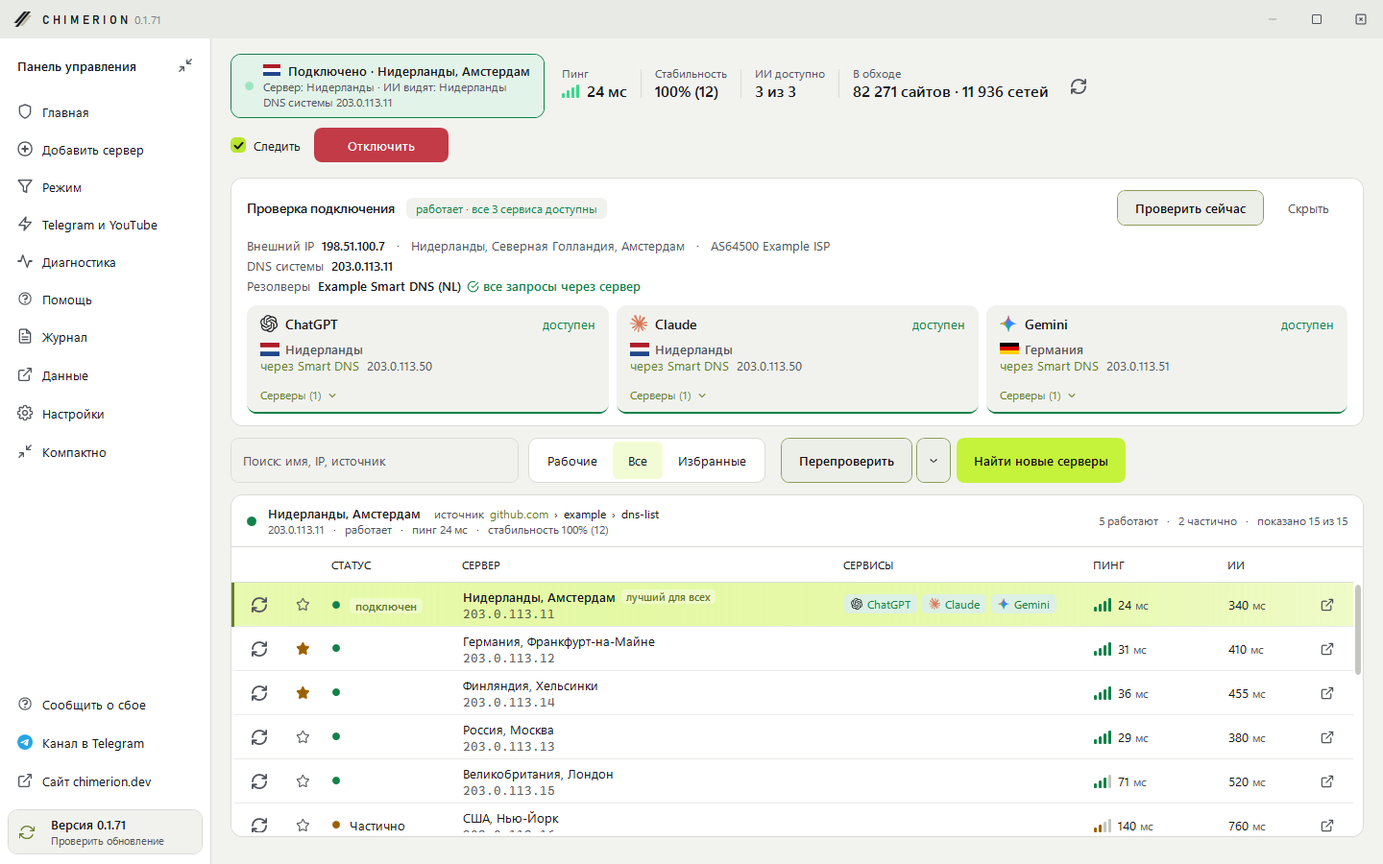
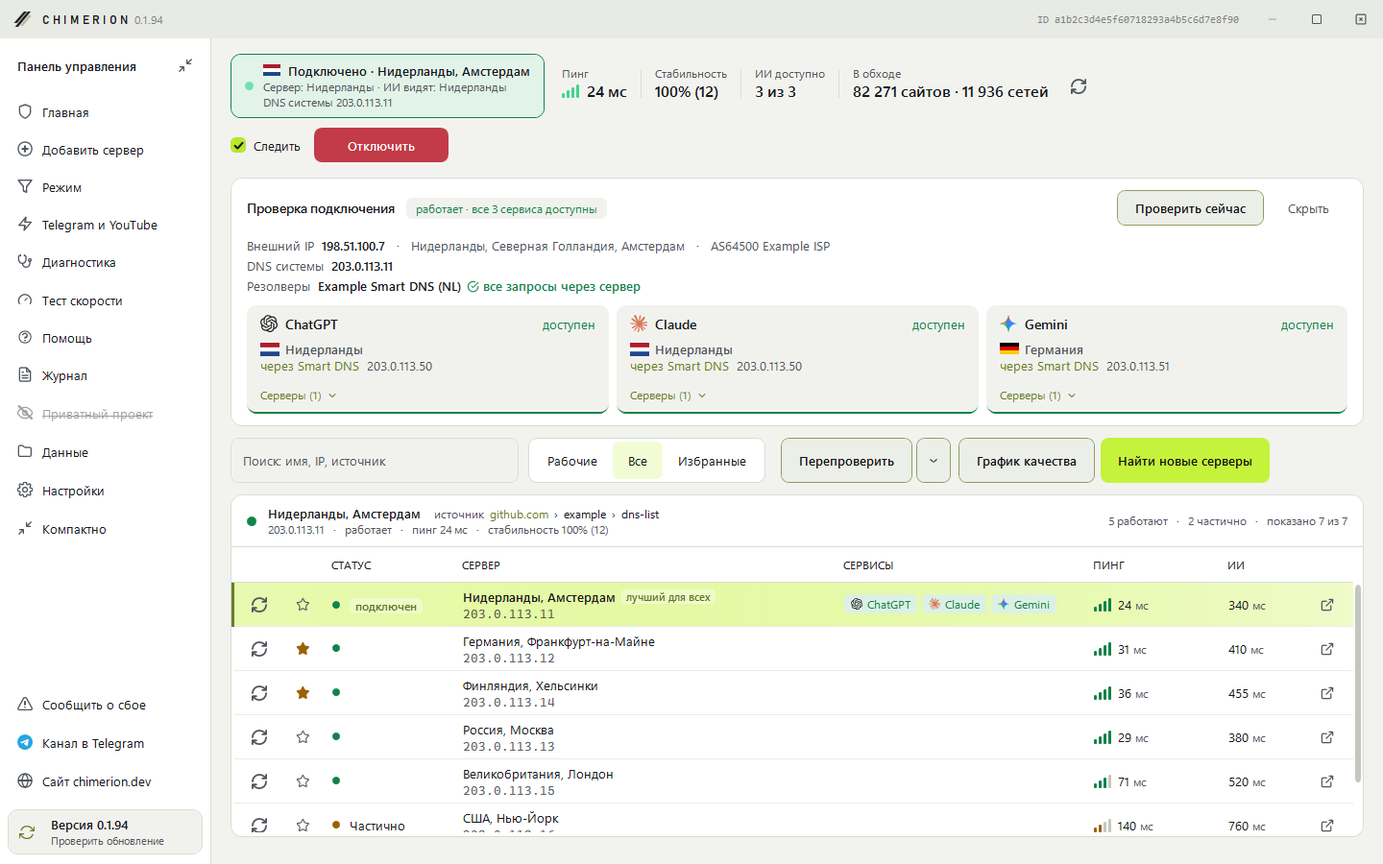
Версия 0.1.94: автоподбор с обходом и Telegram, узкая главная, проверка тем и языков, новые снимки

diff --git a/site/index.html b/site/index.html
@@ -518,7 +518,7 @@ h2 { font: 650 clamp(27px, 3.3vw, 42px)/1.1 var(--display); letter-spacing: -.03
       <p class="intro">Программа сама собирает Smart DNS с форумов, сайтов и Telegram-каналов и проверяет каждый: открывается ли сервис, из какой страны вас видят. На главном экране только важное, а полный список серверов и тонкие настройки в панели управления.</p>
       <figure class="screen">
         <div class="frame">
-          <img src="img/main.webp?v=0.1.71" srcset="img/main-480.webp?v=0.1.71 480w, img/main-800.webp?v=0.1.71 800w, img/main-1200.webp?v=0.1.71 1200w, img/main.webp?v=0.1.71 1440w" sizes="(max-width: 1220px) calc(100vw - 56px), 1164px" width="1440" height="900" loading="lazy" alt="Главный экран CHIMERION: защита включена, ChatGPT, Claude и Gemini доступны, Telegram, YouTube и Discord работают, три лучших сервера">
+          <img src="img/main.webp?v=0.1.94" srcset="img/main-480.webp?v=0.1.94 480w, img/main-800.webp?v=0.1.94 800w, img/main-1200.webp?v=0.1.94 1200w, img/main.webp?v=0.1.94 1440w" sizes="(max-width: 1220px) calc(100vw - 56px), 1164px" width="1440" height="900" loading="lazy" alt="Главный экран CHIMERION: защита включена, ChatGPT, Claude и Gemini доступны, Telegram, YouTube и Discord работают, три лучших сервера">
           <span class="pin" style="left: 16.2%; top: 6.8%" aria-hidden="true">1</span>
           <span class="pin" style="left: 16.2%; top: 34.1%" aria-hidden="true">2</span>
           <span class="pin" style="left: 57.3%; top: 34.1%" aria-hidden="true">3</span>
@@ -587,7 +587,7 @@ h2 { font: 650 clamp(27px, 3.3vw, 42px)/1.1 var(--display); letter-spacing: -.03
           <li>Может вообще не менять сервер без вас, это включается в настройках.</li>
         </ul>
       </div>
-      <div class="shot"><img src="img/compact.webp?v=0.1.71" width="485" height="840" decoding="async" alt="Компактный вид CHIMERION: кнопка отключения, доступность ChatGPT, Claude и Gemini и список серверов"></div>
+      <div class="shot"><img src="img/compact.webp?v=0.1.94" width="485" height="840" decoding="async" alt="Компактный вид CHIMERION: кнопка отключения, доступность ChatGPT, Claude и Gemini и список серверов"></div>
     </div>
   </section>
 

diff --git a/MainWindow.Dashboard.cs b/MainWindow.Dashboard.cs
@@ -207,10 +207,11 @@ public partial class MainWindow
         int lastLayout = -1;
         layout.SizeChanged += (_, e) =>
         {
+            // Узкое окно: меню сворачивается в полоску значков, а не пропадает (раньше вместе с ним пропадала и кнопка обновления)
             bool wide = e.NewSize.Width >= 900;
-            sidebarColumn.Width = new GridLength(wide ? 208 : 0);
-            sidebar.Visibility = wide ? Visibility.Visible : Visibility.Collapsed;
-            double available = e.NewSize.Width - (wide ? 208 : 0);
+            sidebarColumn.Width = new GridLength(wide ? 208 : 64);
+            SetDashboardRail(!wide);
+            double available = e.NewSize.Width - (wide ? 208 : 64);
             int mode = available < 640 ? 0 : available < 960 ? 1 : 2;
             if (mode == lastLayout) return;
             lastLayout = mode;
@@ -331,11 +332,50 @@ public partial class MainWindow
         }
     }
 
+    private readonly List<(Button Button, TextBlock Text, string Title)> _dashNav = new();
+    private DockPanel? _dashSidebarContent;
+    private FrameworkElement? _dashBrandText;
+    private bool? _dashRail;
+
+    /// <summary>Полоска значков вместо меню: подписи прозрачные, название пункта в подсказке, карточка обновления одним значком.</summary>
+    private void SetDashboardRail(bool rail)
+    {
+        if (_dashRail == rail) return;
+        _dashRail = rail;
+        if (_dashSidebarContent != null) _dashSidebarContent.Margin = rail ? new Thickness(8, 24, 8, 18) : new Thickness(15, 24, 15, 18);
+        if (_dashBrandText != null) _dashBrandText.Visibility = rail ? Visibility.Collapsed : Visibility.Visible;
+        foreach (var (button, text, title) in _dashNav)
+        {
+            text.Visibility = rail ? Visibility.Collapsed : Visibility.Visible;
+            button.ToolTip = rail ? title : null;
+            button.HorizontalContentAlignment = rail ? HorizontalAlignment.Center : HorizontalAlignment.Left;
+        }
+        foreach (var v in _updateCards.Where(c => _dashSidebarContent != null && IsInside(c.Card, _dashSidebarContent)))
+        {
+            v.Text.Visibility = rail ? Visibility.Collapsed : Visibility.Visible;
+            v.Card.BorderThickness = new Thickness(rail ? 0 : 1);
+        }
+    }
+
+    private static bool IsInside(DependencyObject child, DependencyObject parent)
+    {
+        for (var d = child; d != null; d = LogicalTreeHelper.GetParent(d) ?? (d is Visual ? VisualTreeHelper.GetParent(d) : null))
+            if (ReferenceEquals(d, parent)) return true;
+        return false;
+    }
+
+    private Button SideNav(string title, string icon, Action click, bool selected = false, bool soon = false)
+    {
+        var b = DashboardNav(title, icon, click, selected, soon);
+        if (b.Content is StackPanel { Children.Count: > 1 } row && row.Children[1] is TextBlock t) _dashNav.Add((b, t, title));
+        return b;
+    }
+
     private FrameworkElement DashboardSidebar()
     {
-        var content = new DockPanel { Margin = new Thickness(15, 24, 15, 18) };
+        var content = _dashSidebarContent = new DockPanel { Margin = new Thickness(15, 24, 15, 18) };
         var bottom = new StackPanel();
-        foreach (var (title, icon, act) in SideLinks()) bottom.Children.Add(DashboardNav(title, icon, act));
+        foreach (var (title, icon, act) in SideLinks()) bottom.Children.Add(SideNav(title, icon, act));
         bottom.Children.Add(CreateUpdateCard());
         DockPanel.SetDock(bottom, Dock.Bottom); content.Children.Add(bottom);
         var links = new StackPanel();
@@ -344,17 +384,18 @@ public partial class MainWindow
         var brandText = new StackPanel();
         brandText.Children.Add(new TextBlock { Text = "CHIMERION", FontSize = 13, FontWeight = FontWeights.Bold });
         brandText.Children.Add(Ui.Hint("Панель сети", 1)); logo.Children.Add(brandText); links.Children.Add(logo);
+        _dashBrandText = brandText;
         // Тот же порядок, что в меню панели управления: главная, серверы, обход, диагностика, настройки
-        links.Children.Add(DashboardNav("Главная", "shield-check", () => { }, true));
-        links.Children.Add(DashboardNav("Панель управления", "layout-dashboard", ShowControlPanel));
-        links.Children.Add(DashboardNav("Обход и Telegram", "zap", () => ToolsToggle_Click(this, new RoutedEventArgs())));
-        links.Children.Add(DashboardNav("Диагностика", "stethoscope", () => DiagToggle_Click(this, new RoutedEventArgs())));
-        links.Children.Add(DashboardNav("Тест скорости", "gauge", () => SpeedTest_Click(this, new RoutedEventArgs())));
-        links.Children.Add(DashboardNav("Настройки", "settings", () => Settings_Click(this, new RoutedEventArgs())));
+        links.Children.Add(SideNav("Главная", "shield-check", () => { }, true));
+        links.Children.Add(SideNav("Панель управления", "layout-dashboard", ShowControlPanel));
+        links.Children.Add(SideNav("Обход и Telegram", "zap", () => ToolsToggle_Click(this, new RoutedEventArgs())));
+        links.Children.Add(SideNav("Диагностика", "stethoscope", () => DiagToggle_Click(this, new RoutedEventArgs())));
+        links.Children.Add(SideNav("Тест скорости", "gauge", () => SpeedTest_Click(this, new RoutedEventArgs())));
+        links.Children.Add(SideNav("Настройки", "settings", () => Settings_Click(this, new RoutedEventArgs())));
         // Как «Компактно» в меню панели управления: узкое окно с кнопкой подключения, сервисами и рабочими серверами
-        links.Children.Add(DashboardNav("Компактно", "shrink", () => { ShowControlPanel(); SetCompact(true); }));
+        links.Children.Add(SideNav("Компактно", "shrink", () => { ShowControlPanel(); SetCompact(true); }));
         // Раздел в разработке: приглушенный и зачеркнутый, нажатие показывает заглушку
-        links.Children.Add(DashboardNav("Приватный проект", "eye-off", () => PrivateProject_Click(this, new RoutedEventArgs()), soon: true));
+        links.Children.Add(SideNav("Приватный проект", "eye-off", () => PrivateProject_Click(this, new RoutedEventArgs()), soon: true));
         content.Children.Add(links);
         return new Border { BorderThickness = new Thickness(0, 0, 1, 0), Child = content }.Ref(Border.BackgroundProperty, "Surface").Ref(Border.BorderBrushProperty, "Border");
     }
@@ -727,7 +768,7 @@ public partial class MainWindow
         if (_sites.Sites.TryGetValue(host, out var site) && site.LastChecked is { } time) return $"Проверка сайта: {DashboardSiteVerdict(site.State)} {Ago(time)}";
         return "Сайт не проверялся";
     }
-    private static string DashboardSiteVerdict(SiteWatch.Verdict verdict) => verdict switch
+    internal static string DashboardSiteVerdict(SiteWatch.Verdict verdict) => verdict switch
     {
         SiteWatch.Verdict.Ok => "открывается", SiteWatch.Verdict.Unknown => "без результата", _ => "не открывается"
     };

diff --git a/MainWindow.AutoPick.cs b/MainWindow.AutoPick.cs
@@ -1,5 +1,6 @@
 using Dnex.Models;
 using Dnex.Services;
+using Dnex.Services.Tools;
 
 namespace Dnex;
 
@@ -42,6 +43,7 @@ public partial class MainWindow
                     ShowToast($"Режим подобран: {s.DisplayName}, {mode}. Открываются {tally.Open} нейросетей" +
                               (tally.Unknown > 0 ? $", {tally.Unknown} без подтверждения" : "") + $" (попыток: {tried})");
                     Log($"Автоподбор: найден рабочий режим на попытке {tried}: «{s.DisplayName}»");
+                    await OfferToolsAsync();
                     return;
                 }
                 if (AutoPick.Score(tally) > bestScore) { best = s; bestScore = AutoPick.Score(tally); }
@@ -53,6 +55,7 @@ public partial class MainWindow
                 DashboardMessage(null);
                 ShowToast($"Полностью рабочего режима не нашлось. Оставил «{best.DisplayName}»: часть нейросетей открывается", "Warn");
                 Log($"Автоподбор: полностью рабочего режима нет, выбран «{best.DisplayName}»");
+                await OfferToolsAsync();
             }
             else
             {
@@ -62,5 +65,19 @@ public partial class MainWindow
             }
         }
         finally { _autoPicking = false; RefreshDashboard(); }
+    }
+
+    /// <summary>
+    /// Вторая часть подбора: обход YouTube и Discord и ускорение Telegram. Установленные, но выключенные программа не включает
+    /// молча (их могли выключить намеренно), а спрашивает один раз за подбор и включает выбранное по очереди.
+    /// </summary>
+    private async Task OfferToolsAsync()
+    {
+        var off = _tools.Where(t => t is ZapretTool or TgProxyTool && t.IsInstalled && !t.IsRunning() && !t.State.Enabled).ToList();
+        if (off.Count == 0) return;
+        var names = string.Join(" и ", off.Select(t => t is ZapretTool ? "обход замедления YouTube и Discord" : "ускорение Telegram"));
+        if (!DnexDialog.Ask("Включить остальное?", $"Нейросети подобраны. Сейчас выключено: {names}. Включить, чтобы работало все сразу?",
+                "Включить", "Не сейчас", DialogKind.Info, windowTitle: "Автоподбор")) { Log("Автоподбор: обход и ускорение оставлены как были"); return; }
+        foreach (var t in off) await DashboardToolAsync(t);
     }
 }

diff --git a/QualityWindow.cs b/QualityWindow.cs
@@ -12,7 +12,7 @@ namespace Dnex;
 /// <summary>
 /// Окно «График качества»: сравнение серверов таблицей (строка выбирает сервер), карточки выбранного и две дорожки с общей осью времени.
 /// Верхняя: медиана ответа по столбцам и разброс. Нижняя: доля проверок без ответа. Столбец без проверок серый и рвет линию,
-/// значения между измерениями не придумываются. Данные из истории проверок, которую программа уже хранит: до 14 дней и 200 точек.
+/// значения между измерениями не придумываются. Данные из истории проверок, которую программа уже хранит: до 14 дней и 336 точек.
 /// </summary>
 internal sealed class QualityWindow
 {
@@ -46,7 +46,8 @@ internal sealed class QualityWindow
 
         // Кандидаты: выбранный сервер, подключенный, избранные, затем с самой длинной историей
         void Add(DnsServer? s) { if (s != null && !s.IsJunk && !_candidates.Contains(s)) _candidates.Add(s); }
-        Add(first);
+        // Сервер, который человек выбрал сам, показывается всегда, даже если программа считает его мусором
+        if (first != null) _candidates.Add(first);
         Add(servers.FirstOrDefault(s => s.IsConnected));
         foreach (var s in servers.Where(s => s.IsFavorite)) Add(s);
         foreach (var s in servers.Where(s => s.History.Count >= 3).OrderByDescending(s => s.History.Count).Take(30)) Add(s);

diff --git a/Models/DnsServer.cs b/Models/DnsServer.cs
@@ -281,6 +281,7 @@ public class DnsServer : INotifyPropertyChanged
     public int ChecksTotal { get; set; }
 
     /// <summary>История полных проверок за последние 14 дней (не больше 200 точек): работал ли сервер и пинг.</summary>
+    public const int MaxHistory = 336;
     public List<CheckPoint> History { get; set; } = new();
 
     public void AddHistory(bool ok, long? ms, DateTime? at = null)
@@ -288,7 +289,8 @@ public class DnsServer : INotifyPropertyChanged
         var now = at ?? DateTime.Now;
         History.Add(new CheckPoint(now, ok, ms));
         History.RemoveAll(p => now - p.T > TimeSpan.FromDays(14));
-        if (History.Count > 200) History.RemoveRange(0, History.Count - 200);
+        // 14 дней по проверке в час: 336 точек. Раньше 200, и при частых проверках график качества видел меньше 14 дней
+        if (History.Count > MaxHistory) History.RemoveRange(0, History.Count - MaxHistory);
     }
 
     /// <summary>Итог истории для подсказки: доступность и пинг за 7 дней, сравнение с предыдущей неделей.</summary>

diff --git a/tests/CHIMERION.Tests/DashboardTextTests.cs b/tests/CHIMERION.Tests/DashboardTextTests.cs
@@ -20,4 +20,12 @@ public class DashboardTextTests
     [Fact]
     public void UpdateCheckingIsVisibleLongEnough() =>
         Assert.InRange(MainWindow.UpdateCheckMinShow.TotalMilliseconds, 500, 1500);
+
+    [Theory]
+    [InlineData(Dnex.Services.SiteWatch.Verdict.Ok, "открывается")]
+    [InlineData(Dnex.Services.SiteWatch.Verdict.Unknown, "без результата")]
+    [InlineData(Dnex.Services.SiteWatch.Verdict.Blocked, "не открывается")]
+    [InlineData(Dnex.Services.SiteWatch.Verdict.NoDns, "не открывается")]
+    public void Site_status_on_home_screen(Dnex.Services.SiteWatch.Verdict verdict, string text) =>
+        Assert.Equal(text, Dnex.MainWindow.DashboardSiteVerdict(verdict));
 }

diff --git a/Services/QualityStats.cs b/Services/QualityStats.cs
@@ -18,7 +18,7 @@ public sealed record QualityBucket(DateTime Start, DateTime End, long? MedianMs,
     public int FailPercent => Count == 0 ? 0 : Failed * 100 / Count;
 }
 
-/// <summary>Расчет по истории проверок, которую каждый сервер уже хранит (до 14 дней, до 200 точек).</summary>
+/// <summary>Расчет по истории проверок, которую каждый сервер уже хранит (до 14 дней, до 336 точек).</summary>
 public static class QualityStats
 {
     public static readonly string[] Parts = { "ночью (0:00-6:00)", "утром (6:00-12:00)", "днем (12:00-18:00)", "вечером (18:00-24:00)" };

diff --git a/README.md b/README.md
@@ -90,6 +90,8 @@
 
 **Скорость и причины.** У каждого сервера, который не работает, видна причина простыми словами: обычный DNS без подмены, нейросети закрыты для региона, сервер не отвечает. В меню строки есть «График качества»: как сервер отвечал за последние 14 дней и в какое время суток он чаще подводит. В меню строки есть «Измерить скорость DNS»: время ответа на поток разных запросов, отдельно от пинга и доступа к нейросетям.
 
+**Тест скорости и график качества.** Пункт «Тест скорости» в левом меню: ваш внешний IP, провайдер, локация и подключенный Smart DNS, скорость скачивания и отправки, пинг, джиттер, скорость DNS и что из этого получится (видео в 4K, звонки, игры). Замер только по кнопке. «График качества» на панели серверов показывает, как каждый сервер отвечал за сутки, 7 или 14 дней: доступность, медиана и P95, сбои по времени и сравнение серверов таблицей.
+
 **Скрытие данных.** Отдельная галочка в настройках: окна программы не попадают на скриншоты, запись и демонстрацию экрана, а ваш IP, город и провайдер на экране заменяются на «скрыто».
 
 **Удобство.** Светлая и темная темы, свои цвета интерфейса, русский и английский языки, компактный вид, сворачиваемое меню, избранные серверы, перенос настроек и избранного на другой компьютер («Настройки» → «Данные»), плавные анимации переключателей. Там, где нужно что-то выбрать, есть метка «рекомендуем» и кнопки «Рекомендуемые» и «Выбрать все».

diff --git a/CHANGELOG.md b/CHANGELOG.md
@@ -1,5 +1,19 @@
 # История изменений
 
+## 0.1.94
+
+Автоподбор
+- После подбора сервера «Подобрать автоматически» предлагает включить выключенные обход YouTube и Discord и ускорение Telegram, чтобы работало все сразу. Без вопроса ничего не включается.
+
+Интерфейс
+- На узкой главной меню сворачивается в полоску значков вместо того, чтобы пропадать вместе с кнопкой обновления.
+- «График качества» показывает выбранный сервер, даже если программа считает его нерабочим. Окна теста скорости и графика проверены в светлой теме и на английском.
+- История проверок серверов хранится до 336 точек: график за 14 дней теперь полный и при частых проверках.
+
+Прочее
+- Обновлены снимки в README и на сайте, в README описаны тест скорости и график качества.
+- Обновлена библиотека QR-кодов. Сбой сети при проверке уязвимостей пакетов больше не ломает сборку.
+
 ## 0.1.93
 
 По журналам пользователей
